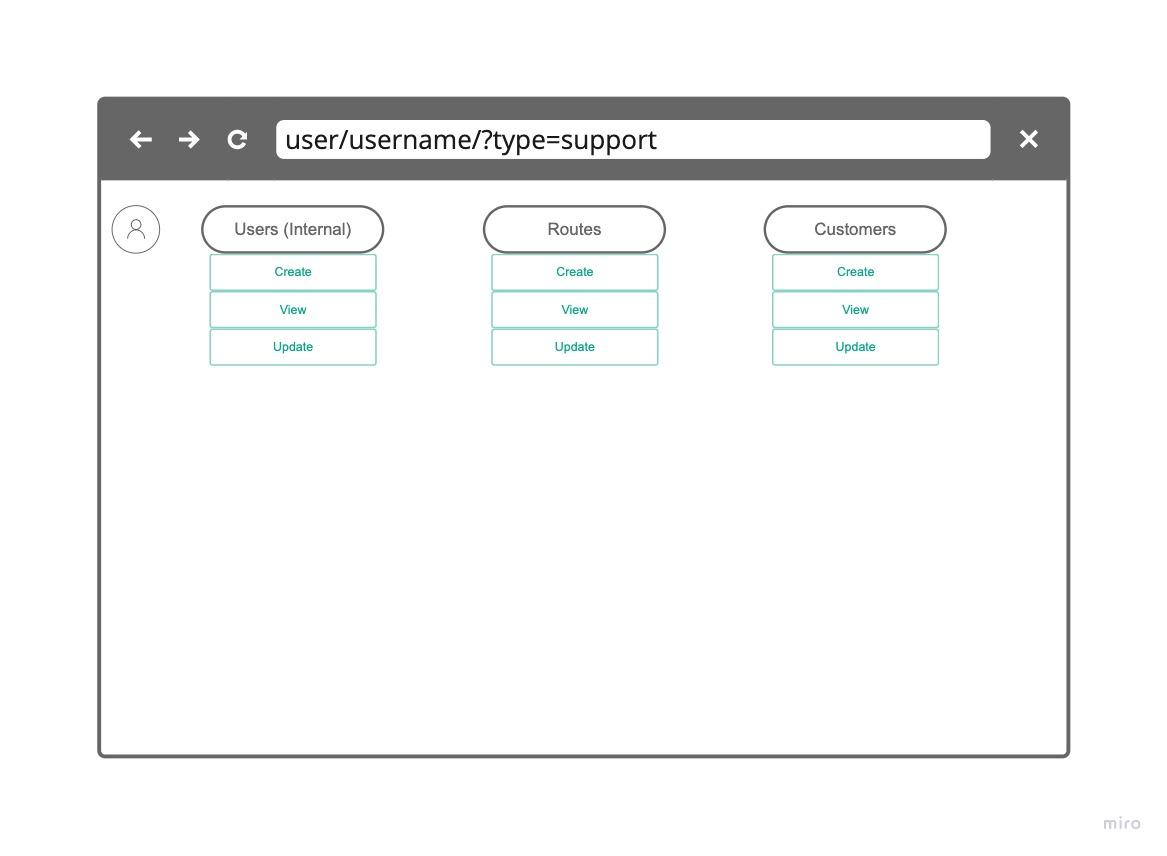
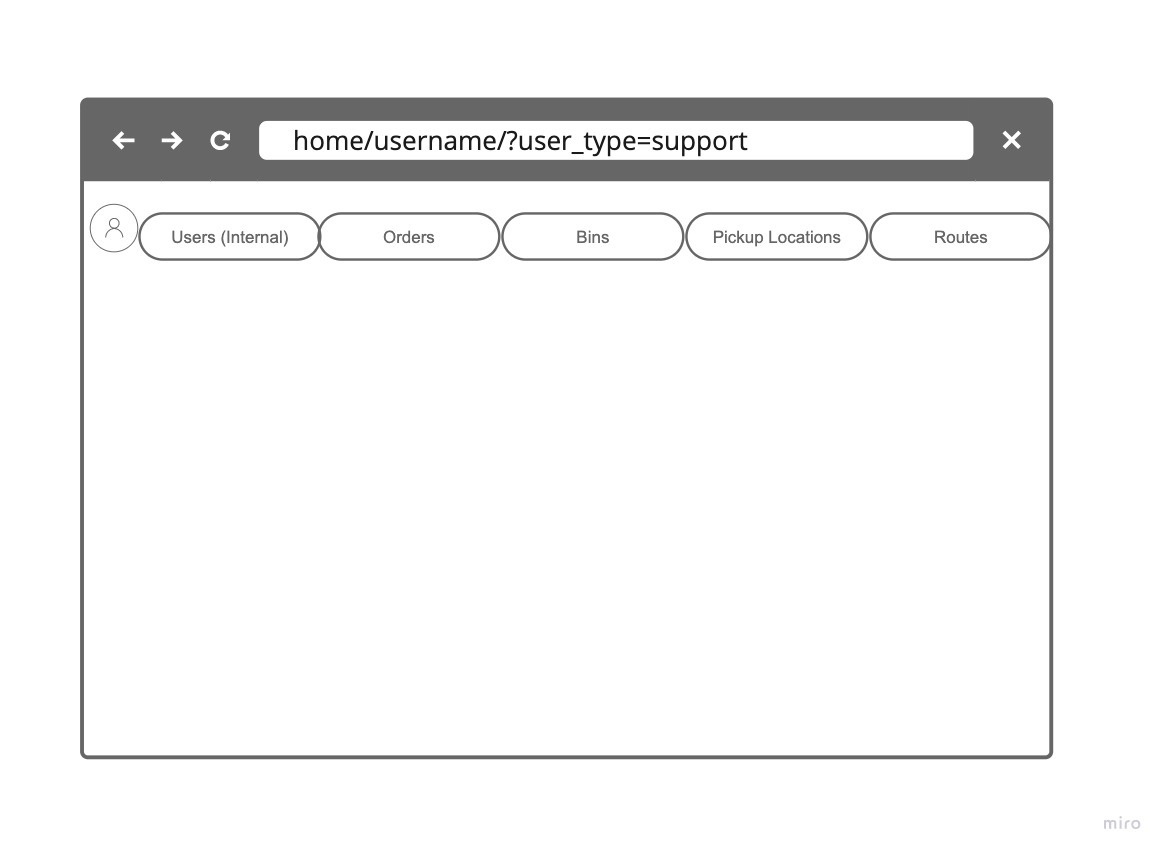
add wireframes for bins and location pages

Changed region(s): [[0.0617, 0.0911, 0.9254, 0.9112]]

diff --git a/README.md b/README.md
@@ -2,8 +2,7 @@
 4 wireframes: Done
 User Stories: Done
 ERD:Done
-tech stack: Done
-third party API if applicable
+tech stack: Donethird party API if applicable
  -->
 
 # composting-mgmt-systems
@@ -76,10 +75,11 @@ Web App to Manage Composting Bins, Pickups and Ticketing
 **4. Support **
 
     - CREATE
-        1. Pickup Route
-        2. User (driver)
-        3. User (Officer)
-        4. User (Support Admin)
+        1. Create bin
+        2. Pickup Route
+        3. User (driver)
+        4. User (Officer)
+        5. User (Support Admin)
     
     - READ
         1. Customer(s)
@@ -114,6 +114,13 @@ Web App to Manage Composting Bins, Pickups and Ticketing
 
 
             
+### MVP
+---
 
+Complete User Stories Listed above for Customer and Admin
+
+### Stretch Goals
+
+Complete User Stories Listed above for Driver and Officer
 
 
